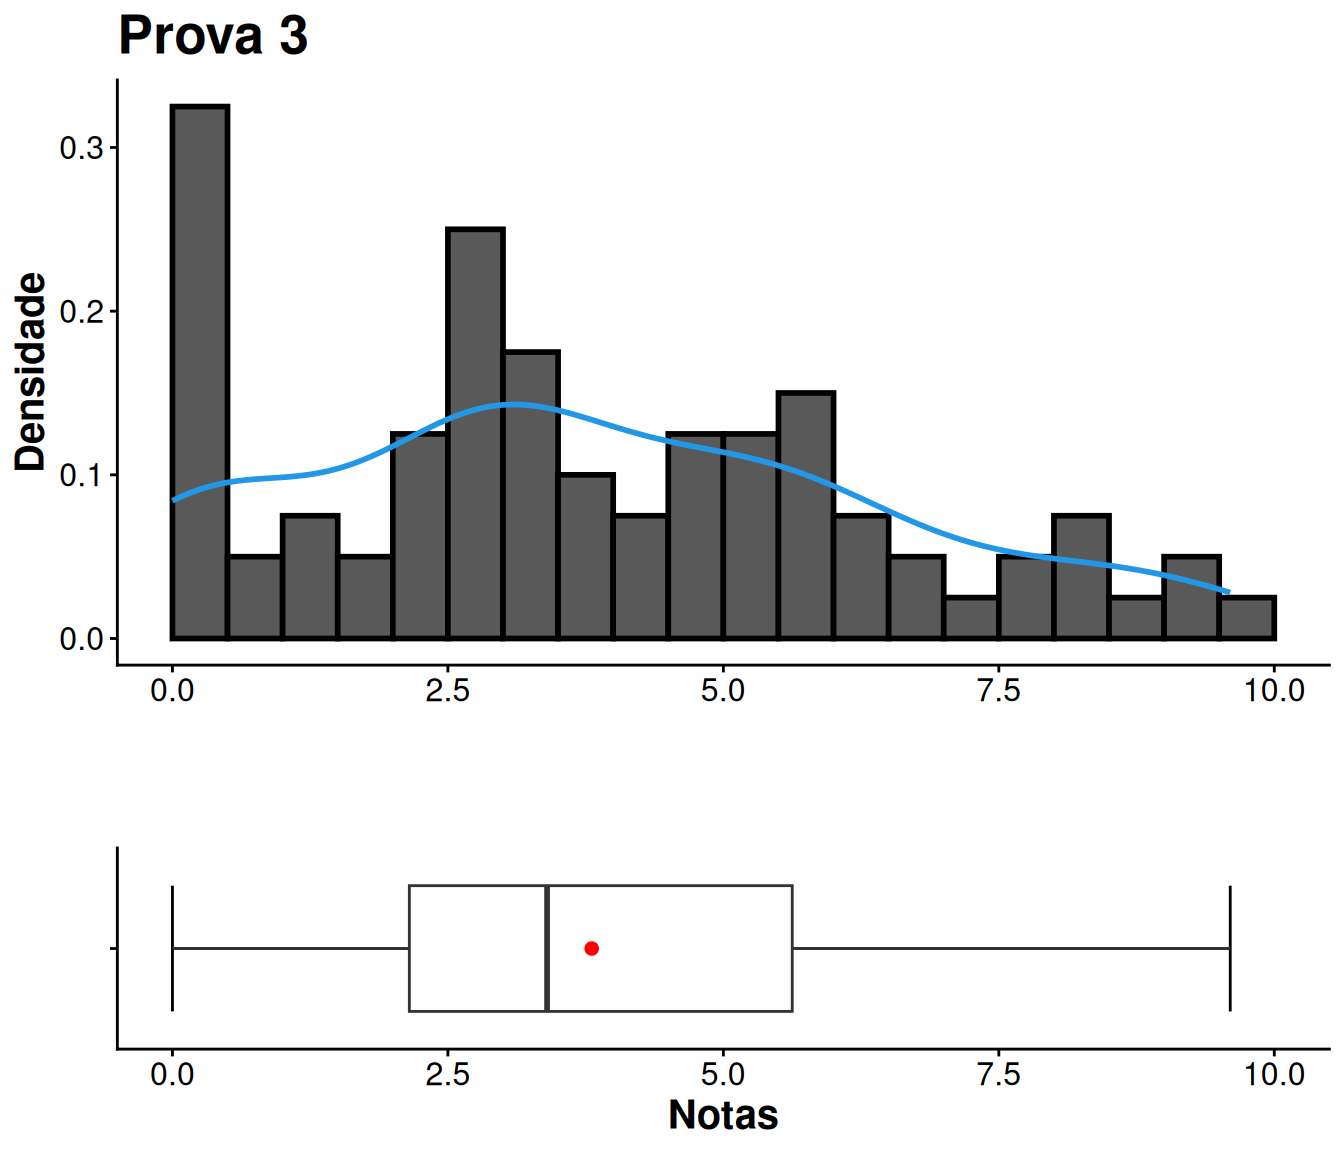
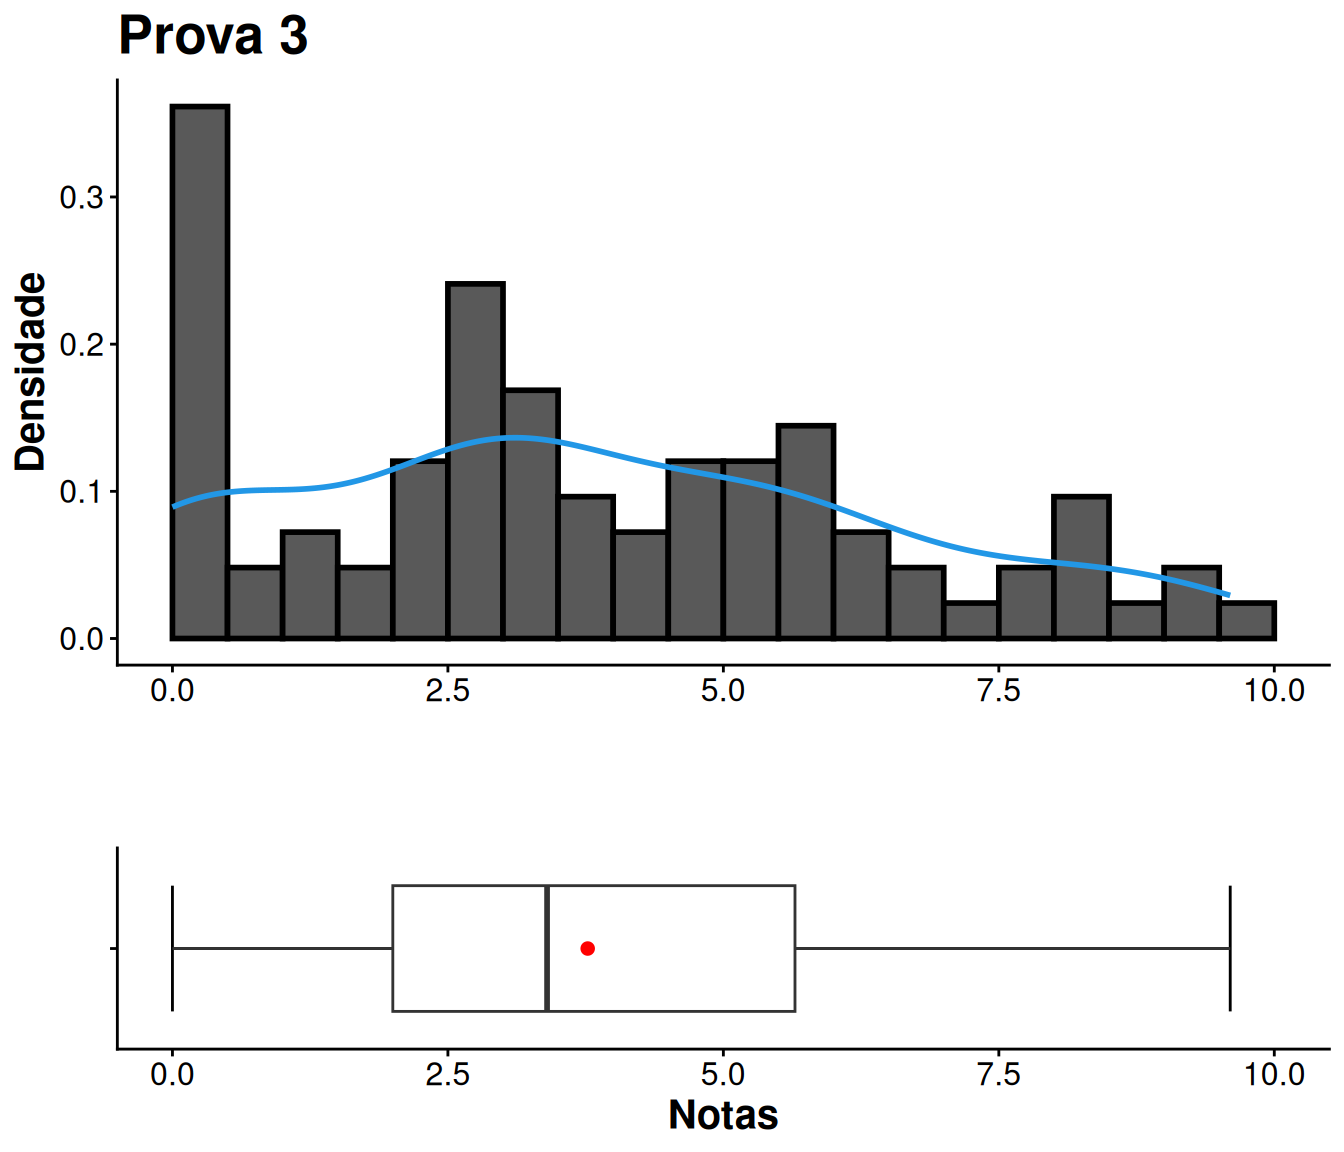
Atualizando arquivo de notas atualizado

diff --git a/notas.html b/notas.html
@@ -451,7 +451,7 @@ Prof. Dr. Paulo Justiniano Ribeiro Junior</div></h3>
 <td align="left">GRR20262535</td>
 <td align="right">7.6</td>
 <td align="right">1.1</td>
-<td align="right">NA</td>
+<td align="right">8.4</td>
 <td align="right">28</td>
 </tr>
 <tr class="odd">
@@ -626,7 +626,7 @@ Prof. Dr. Paulo Justiniano Ribeiro Junior</div></h3>
 <td align="left">GRR20254020</td>
 <td align="right">5.3</td>
 <td align="right">2.2</td>
-<td align="right">NA</td>
+<td align="right">0.0</td>
 <td align="right">24</td>
 </tr>
 <tr class="even">
@@ -955,7 +955,7 @@ Prof. Dr. Paulo Justiniano Ribeiro Junior</div></h3>
 <td align="left">GRR20254001</td>
 <td align="right">4.0</td>
 <td align="right">1.2</td>
-<td align="right">NA</td>
+<td align="right">0.0</td>
 <td align="right">38</td>
 </tr>
 <tr class="odd">
@@ -1332,14 +1332,14 @@ class="section level1 tabset tabset-fade tabset-pills">
 <div id="prova-3" class="section level2">
 <h2>PROVA 3</h2>
 <center>
-<table style="width:78%;">
+<table style="width:74%;">
 <colgroup>
 <col width="6%" />
 <col width="12%" />
-<col width="9%" />
+<col width="6%" />
 <col width="11%" />
 <col width="13%" />
-<col width="11%" />
+<col width="9%" />
 <col width="12%" />
 </colgroup>
 <thead>
@@ -1355,12 +1355,12 @@ class="section level1 tabset tabset-fade tabset-pills">
 </thead>
 <tbody>
 <tr class="odd">
-<td align="center">80</td>
+<td align="center">83</td>
 <td align="center">0</td>
-<td align="center">2.15</td>
-<td align="center">3.805</td>
+<td align="center">2</td>
+<td align="center">3.769</td>
 <td align="center">3.4</td>
-<td align="center">5.625</td>
+<td align="center">5.65</td>
 <td align="center">9.6</td>
 </tr>
 </tbody>
@@ -1381,8 +1381,8 @@ class="section level1 tabset tabset-fade tabset-pills">
 <tbody>
 <tr class="odd">
 <td align="center">9.6</td>
-<td align="center">6.929</td>
-<td align="center">2.632</td>
+<td align="center">7.285</td>
+<td align="center">2.699</td>
 </tr>
 </tbody>
 </table>
@@ -1732,7 +1732,7 @@ class="section level1 tabset tabset-fade tabset-pills">
 <td align="center">108</td>
 <td align="center">0</td>
 <td align="center">1.275</td>
-<td align="center">2.162</td>
+<td align="center">2.161</td>
 <td align="center">2.4</td>
 <td align="center">2.9</td>
 <td align="center">7.2</td>
